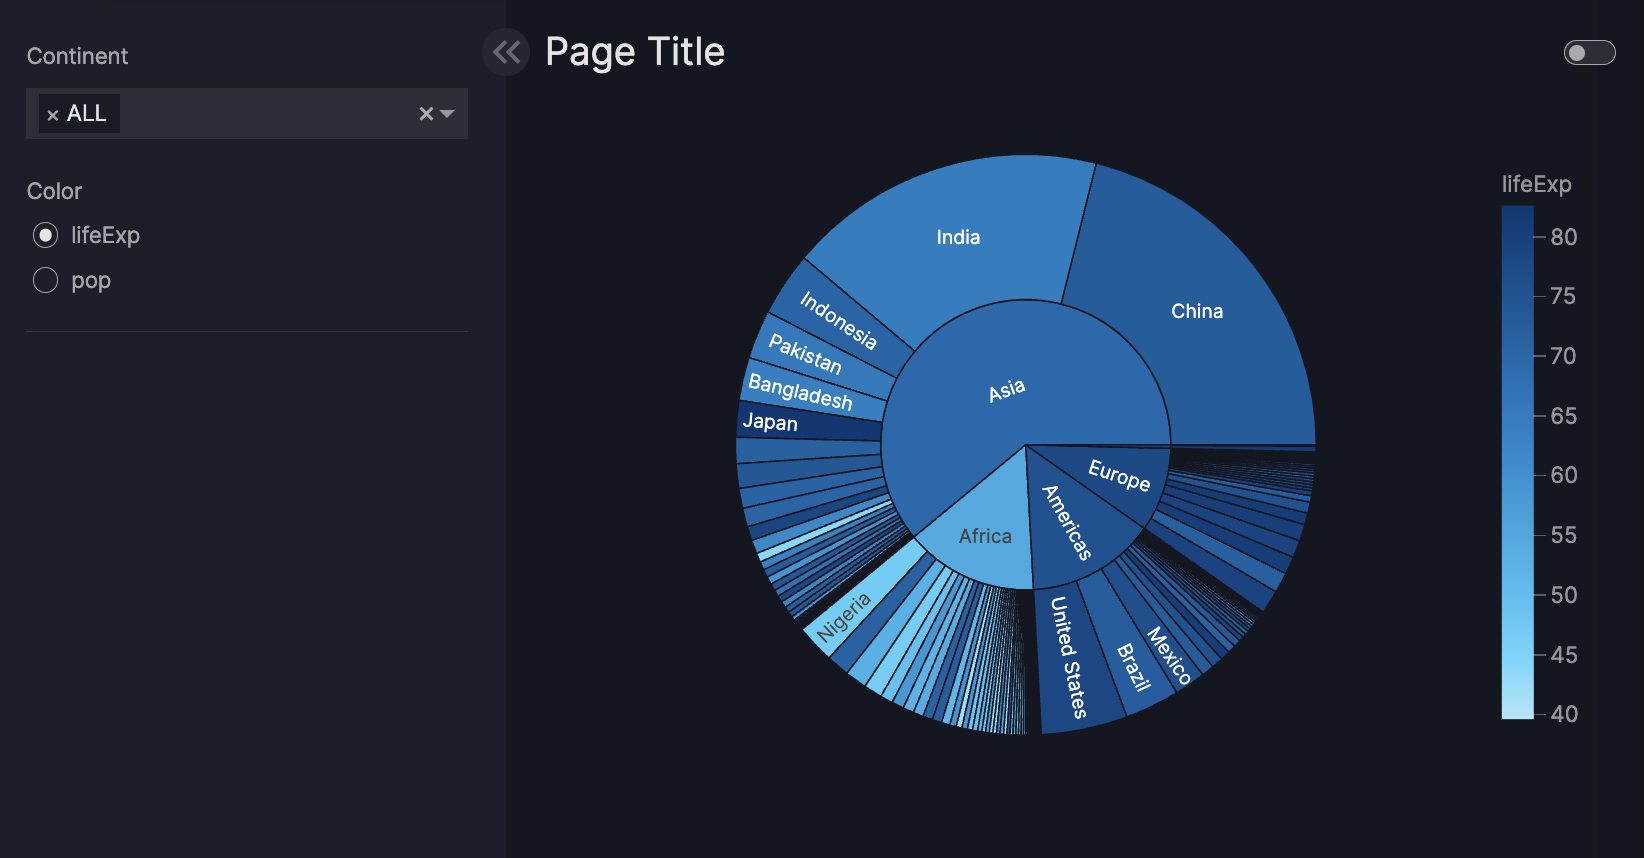
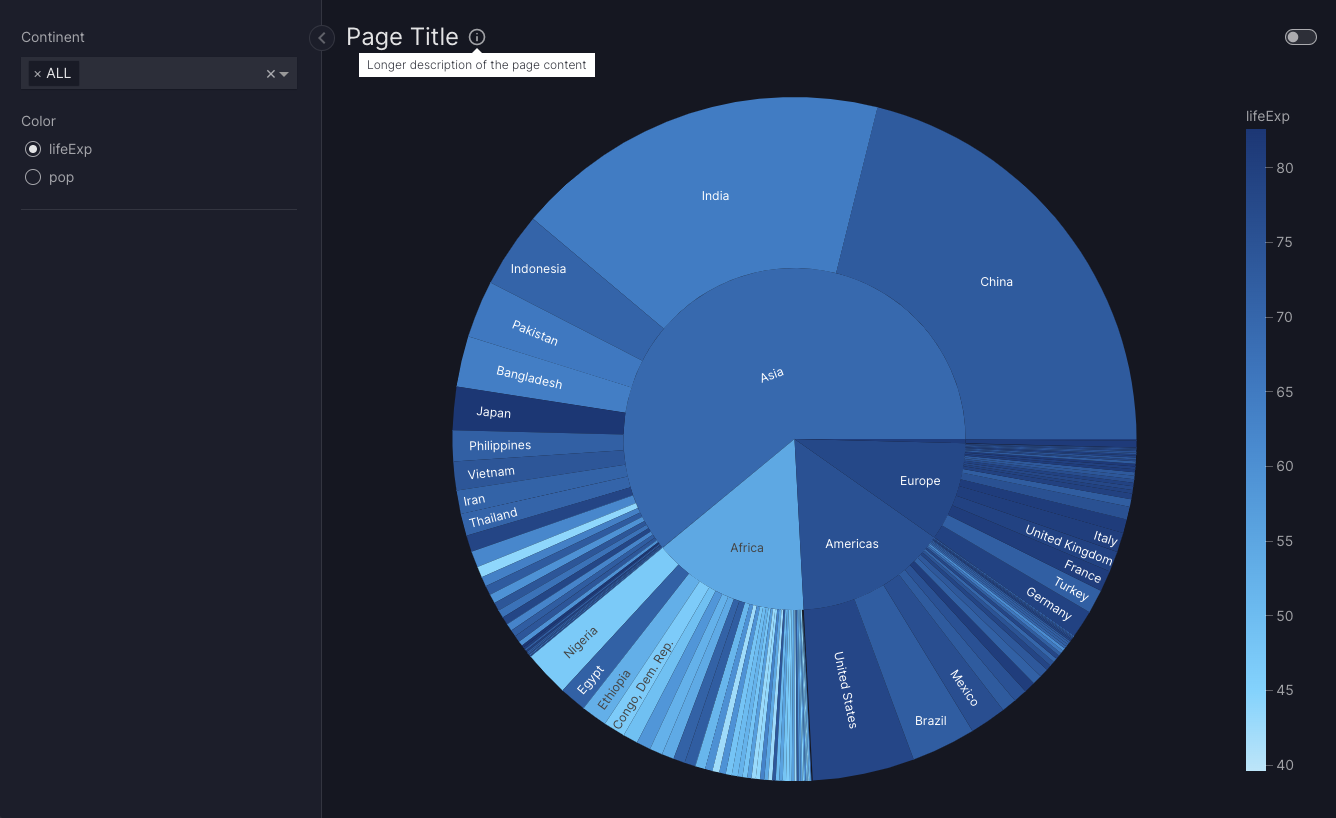
Update docs

diff --git a/vizro-core/src/vizro/models/_dashboard.py b/vizro-core/src/vizro/models/_dashboard.py
@@ -124,17 +124,16 @@ class Dashboard(VizroBaseModel):
         # Note redirect_from=["/"] doesn't work and so the / route must be defined separately.
         self.pages[0].path = "/"
         meta_img = self._infer_image("app") or self._infer_image("logo") or self._infer_image("logo_dark")
+        dashboard_description_text = self.description.text if self.description else None
 
         for order, page in enumerate(self.pages):
             # Dash also uses the dashboard-level description passed into Dash() as the default for page-level
             # descriptions, but this would involve extracting dashboard.description and inserting it into the Dash app
             # config in Vizro.build. What we do here is simpler but has the same effect.
-            dashboard_description = self.description.text if self.description else None
-
             dash.register_page(
                 module=page.id,
                 name=page.title,
-                description=page.description.text if page.description else dashboard_description,
+                description=page.description.text if page.description else dashboard_description_text,
                 image=meta_img,
                 title=f"{self.title}: {page.title}" if self.title else page.title,
                 path=page.path,

diff --git a/vizro-core/docs/pages/user-guides/dashboard.md b/vizro-core/docs/pages/user-guides/dashboard.md
@@ -6,10 +6,10 @@ To create a dashboard:
 
 1. Choose one of the possible configuration syntaxes
 1. Create your `pages`, see our [guide on Pages](pages.md)
-1. (optional) Choose a `theme`, see our [guide on Themes](themes.md)
 1. (optional) Customize your `navigation`, see our [guide on Navigation](navigation.md)
 1. (optional) Set a `title` for your dashboard
-1. (optional) Add info-icon next to your dashboard title by setting `description` argument
+1. (optional) Set a `description` for your dashboard to [add a tooltip](#add-a-dashboard-tooltip) and [set meta tags](#meta-tags-for-social-media)
+1. (optional) Choose a `theme`, see our [guide on Themes](themes.md)
 1. Add your `dashboard` to the `build` call of Vizro
 
 ## Use dashboard configuration options
@@ -198,28 +198,31 @@ If supplied, the `title` of the [`Dashboard`][vizro.models.Dashboard] displays a
 
 ## Add a dashboard logo
 
-Vizro will [automatically incorporate the dashboard logo](assets.md/#add-a-logo-image) in the top-left corner of each page if an image named `logo.<extension>` is present within the assets folder.
+Vizro [automatically incorporate the dashboard logo](assets.md/#add-a-logo-images) in the top-left corner of each page if an image named `logo.<extension>` is present within the assets folder.
 
 ![Dashboard with logo](../../assets/user_guides/dashboard/dashboard_with_logo.png)
 
-## Add a dashboard info-icon
+## Add a dashboard tooltip
 
-The `description` argument enables you to add helpful context to your dashboard by displaying an info icon next to the dashboard title. Hovering over the icon shows a tooltip with your chosen text.
+The `description` argument enables you to add helpful context to your dashboard by displaying an info icon next to its title. Hovering over the icon shows a tooltip with your provided text.
 
-To use the default info icon, just provide a string of description text. To use a custom icon, pass a custom [`Tooltip`][vizro.models.Tooltip] model to use an icon from the [Google Material Icons library](https://fonts.google.com/icons) alongside your description text.
+You can provide markdown text as a string to use the default info icon or a [`Tooltip`][vizro.models.Tooltip] model to use any icon from the [Google Material Icons library](https://fonts.google.com/icons).
 
-```python
-description = Tooltip(text="More information about this dashboard.", icon="info")
-```
+![Dashboard with tooltip](../../assets/user_guides/dashboard/dashboard_with_info_icon.png)
 
-![Dashboard with info-icon](../../assets/user_guides/dashboard/dashboard_with_info_icon.png)
+## Meta tags for social media
+
+Vizro automatically adds [meta tags](https://metatags.io/) to display a preview card when your app is shared on social media and chat clients. To see an example, try sharing an example from the [Vizro examples gallery](https://vizro.mckinsey.com/).
+
+The preview includes:
+
+* the dashboard `title` and the [Page `title`][vizro.models.Page] 
+* an image if a [suitable assets file exists](assets.md/#include-a-meta-tags-image)
+* the dashboard `description` or the [Page `description`][vizro.models.Page]
 
 ## Browser title
 
 The [website icon](assets.md/#change-the-favicon), Dashboard `title` (if supplied) and [Page `title`][vizro.models.Page] are displayed in the browser's title bar. For example, if your Dashboard `title` is "Vizro Demo" and the Page `title` is "Homepage", then the title in the browser tab will be "Vizro Demo: Homepage".
 
-## Meta tags for social media
-
-Vizro automatically adds [meta tags](https://metatags.io/) to display a preview card when your app is shared on social media and chat clients. The preview includes the `URL`, `title`, plus an [image](assets.md/#include-a-meta-tags-image) and [Page `description`][vizro.models.Page] (if supplied). To see an example, try sharing an example from the [Vizro examples gallery](https://vizro.mckinsey.com/).
 
 [dashboard]: ../../assets/user_guides/dashboard/dashboard.png

diff --git a/vizro-core/docs/pages/user-guides/container.md b/vizro-core/docs/pages/user-guides/container.md
@@ -413,21 +413,17 @@ Collapsible containers can be used in `Grid` layout as well.
 
         [![CollapsibleContainerGrid]][collapsiblecontainergrid]
 
-## Add an info-icon
+## Add a tooltip
 
 The `description` argument enables you to add helpful context to your container by displaying an info icon next to its title. Hovering over the icon shows a tooltip with your chosen text.
 
-To use the default info icon, just provide a string of description text. To use a custom icon, pass a custom [`Tooltip`][vizro.models.Tooltip] model to use an icon from the [Google Material Icons library](https://fonts.google.com/icons) alongside your description text.
+You can provide markdown text as a string to use the default info icon or a [`Tooltip`][vizro.models.Tooltip] model to use any icon from the [Google Material Icons library](https://fonts.google.com/icons).
 
-```python
-description = Tooltip(text="More information about this container.", icon="help")
-```
-
-!!! example "Container with info-icon"
+!!! example "Container with tooltip"
 
     === "app.py"
 
-        ```{.python pycafe-link}
+        ```{.python pycafe-link hl_lines="14-18"}
         import vizro.models as vm
         import vizro.plotly.express as px
         from vizro import Vizro
@@ -435,11 +431,11 @@ description = Tooltip(text="More information about this container.", icon="help"
         iris = px.data.iris()
 
         page = vm.Page(
-            title="Container with info-icon",
+            title="Container with tooltip",
             layout=vm.Grid(grid=[[0, 1]]),
             components=[
                 vm.Container(
-                    title="Container with info-icon",
+                    title="Container with tooltip",
                     components=[vm.Graph(figure=px.scatter(iris, x="sepal_width", y="sepal_length", color="species"))],
                     description="""
                         The Iris dataset includes measurements of 150 iris flowers across three types: Setosa, Versicolor, and Virginica.
@@ -460,17 +456,17 @@ description = Tooltip(text="More information about this container.", icon="help"
 
     === "app.yaml"
 
-        ```yaml
+        ```{.yaml hl_lines="20-23"}
         # Still requires a .py to add data to the data manager and parse YAML configuration
         # See yaml_version example
         pages:
-          - title: Container with info-icon
+          - title: Container with tooltip
             layout:
               grid: [[0, 1]]
               type: grid
             components:
               - type: container
-                title: Container with info-icon
+                title: Container with tooltip
                 components:
                   - type: graph
                     figure:

diff --git a/vizro-core/docs/pages/user-guides/graph.md b/vizro-core/docs/pages/user-guides/graph.md
@@ -74,14 +74,14 @@ You will need to create a custom chart if you want to customize the Plotly chart
 
 For more details, refer to our [user guide on custom chart](custom-charts.md) and the [Plotly documentation on updating figures](https://plotly.com/python/creating-and-updating-figures/).
 
-## Add title, header, footer, and info-icon
+## Add additional text
 
-The [`Graph`][vizro.models.Graph] accepts a `title`, `header`, `footer`, and `description` argument. This is useful for context on the data being displayed, or for adding a description of the data.
+The [`Graph`][vizro.models.Graph] model accepts `title`, `header`, `footer` and `description` arguments. These are useful for providing additional context on the chart.
 
 - **title**: Displayed as an [H3 header](https://dash.plotly.com/dash-html-components/h3), useful for summarizing the main topic or insight of the component.
 - **header**: Accepts markdown text, ideal for extra descriptions, subtitles, or detailed data insights.
 - **footer**: Accepts markdown text, commonly used for citing data sources, providing information on the last update, or adding disclaimers.
-- **description**: Accepts either markdown text or [`Tooltip`][vizro.models.Tooltip] model, ideal for showing extra descriptions in a tooltip on hover.
+- **description**: Displayed as an icon that opens a tooltip containing markdown text when hovered over. You can provide a string to use the default info icon or a [`Tooltip`][vizro.models.Tooltip] model to use any icon from the [Google Material Icons library](https://fonts.google.com/icons).
 
 !!! note "Use `Graph.title` instead of the Plotly Express chart title"
 

diff --git a/vizro-core/docs/pages/user-guides/table.md b/vizro-core/docs/pages/user-guides/table.md
@@ -526,14 +526,14 @@ As mentioned above, all [parameters of the Dash DataTable](https://dash.plotly.c
 
 If the available arguments are not sufficient, there is always the option to create a [custom Dash DataTable](custom-tables.md).
 
-## Add title, header, footer and info-icon
+## Add additional text
 
-The [`Table`][vizro.models.Table] and the [`AgGrid`][vizro.models.AgGrid] models accept a `title`, `header`, `footer` and `description` argument. This is useful for providing context to the data being displayed, or for adding a description of the data.
+The [`Table`][vizro.models.Table] and the [`AgGrid`][vizro.models.AgGrid] models accept `title`, `header`, `footer` and `description` arguments. These are useful for providing additional context on the table.
 
 - **title**: Displayed as an [H3 header](https://dash.plotly.com/dash-html-components/h3), useful for summarizing the main topic or insight of the component.
 - **header**: Accepts markdown text, ideal for extra descriptions, subtitles, or detailed data insights.
 - **footer**: Accepts markdown text, commonly used for citing data sources, providing information on the last update, or adding disclaimers.
-- **description**: Accepts either markdown text or [`Tooltip`][vizro.models.Tooltip] model, ideal for showing extra descriptions in a tooltip on hover.
+- **description**: Displayed as an icon that opens a tooltip containing markdown text when hovered over. You can provide a string to use the default info icon or a [`Tooltip`][vizro.models.Tooltip] model to use any icon from the [Google Material Icons library](https://fonts.google.com/icons).
 
 ### Formatted AgGrid
 

diff --git a/vizro-core/docs/pages/user-guides/selectors.md b/vizro-core/docs/pages/user-guides/selectors.md
@@ -44,17 +44,17 @@ For more information, refer to the API reference of the selector, or the documen
 
     When configuring the [`DatePicker`][vizro.models.DatePicker] make sure to provide your dates for `min`, `max` and `value` arguments in `"yyyy-mm-dd"` format or as `datetime` type (for example, `datetime.datetime(2024, 01, 01)`).
 
-## Add an info-icon
+## Add a tooltip
 
 The `description` argument enables you to add helpful context to your selector by displaying an info icon next to its title. Hovering over the icon shows a tooltip with your provided text.
 
-You can provide a string to use the default info icon, or pass a custom [`Tooltip`][vizro.models.Tooltip] model to define both a custom icon from the [Google Material Icons library](https://fonts.google.com/icons) and the description text.
+You can provide markdown text as a string to use the default info icon or a [`Tooltip`][vizro.models.Tooltip] model to use any icon from the [Google Material Icons library](https://fonts.google.com/icons).
 
-!!! example "Selectors with info-icon"
+!!! example "Selectors with tooltip"
 
     === "app.py"
 
-        ```{.python pycafe-link hl_lines="19-24"}
+        ```{.python pycafe-link hl_lines="19-23"}
         import vizro.models as vm
         import vizro.plotly.express as px
         from vizro import Vizro
@@ -89,7 +89,7 @@ You can provide a string to use the default info icon, or pass a custom [`Toolti
 
     === "app.yaml"
 
-        ```{.yaml hl_lines="16 17"}
+        ```{.yaml hl_lines="16-19"}
         pages:
           - title: Selectors with icons
             components:

diff --git a/vizro-core/docs/pages/user-guides/pages.md b/vizro-core/docs/pages/user-guides/pages.md
@@ -21,7 +21,7 @@ To create and add a page to your dashboard, do the following steps:
 1. Configure your `components`, see our guide on the [various options](components.md)
 1. (optional) Configure your `controls` , see our guides on [Filters](filters.md) and [Parameters](parameters.md)
 1. (optional) Configure your `layout` , see our guide on [Layouts](layouts.md)
-1. (optional) Give a `description` of your `Page` to the app's [meta tags](https://metatags.io/)
+1. (optional) Set a `description` for your page to add a tooltip and [set meta tags](dashboard.md#meta-tags-for-social-media)
 
 !!! example "Page"
 
